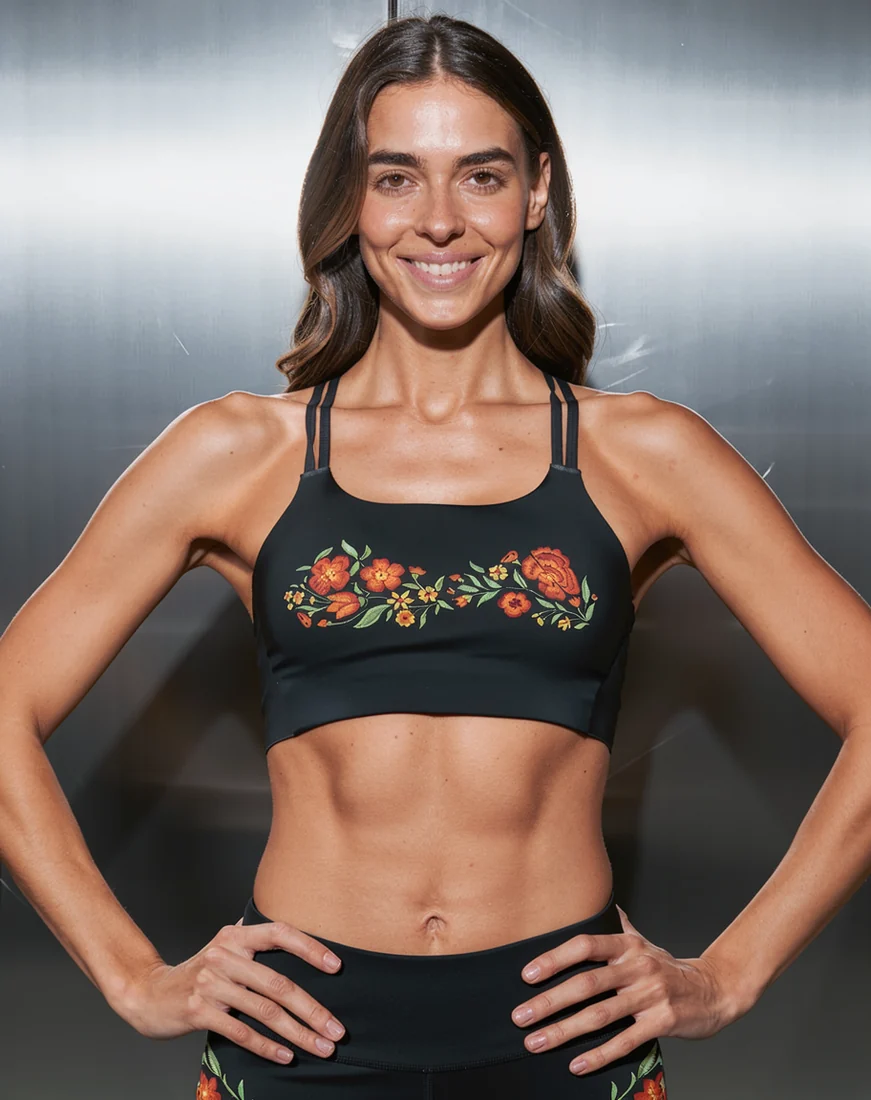
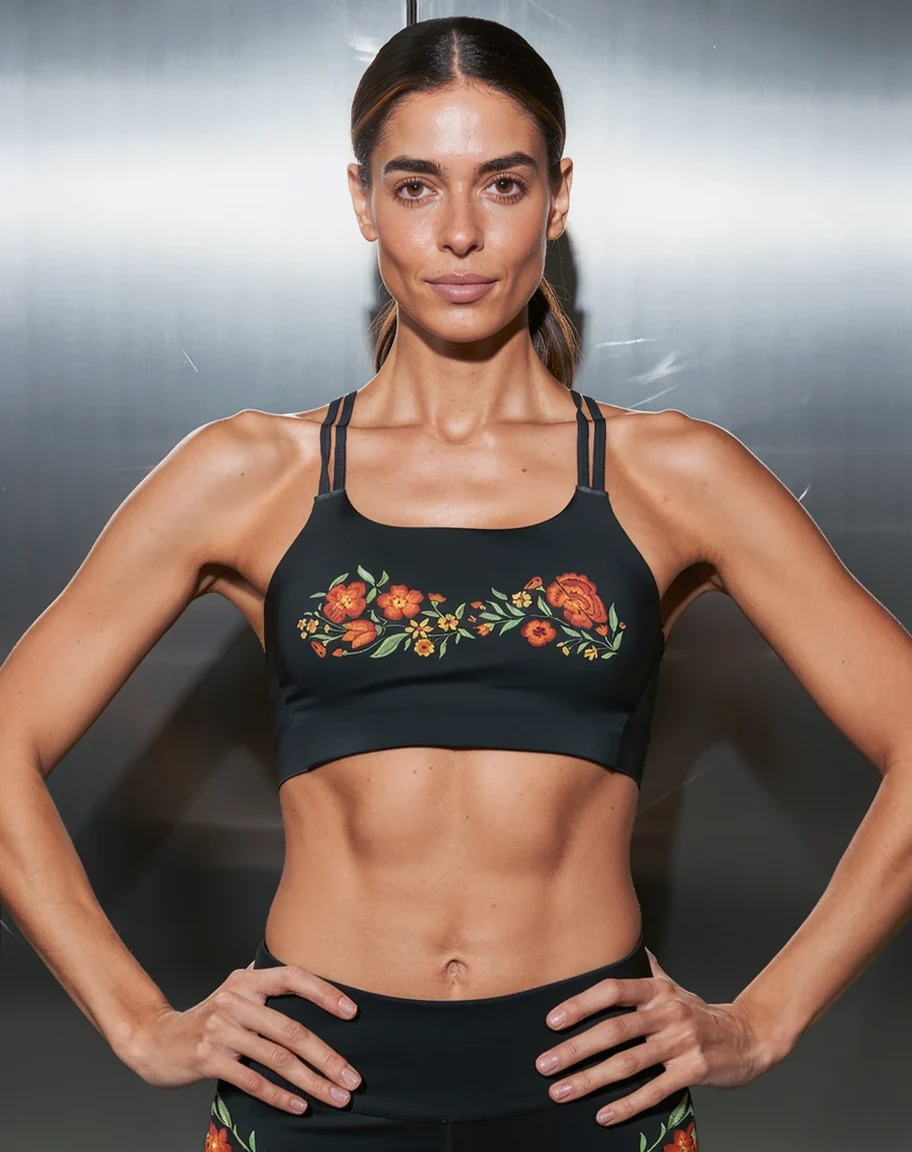
Work through Abir's November round of comments
Copy
- The product cards in the grid no longer carry a description; it shows
  on the product page only, for every product.
- "across the front" and "along the leg" dropped from the bra and
  legging lines, so both now end at "featuring signature artwork".
- The phone bag reads "A crossbody phone bag designed to carry your
  phone and essentials."
- The print notes use Abir's own hang-tag wording rather than the lines
  that were here: bluebirds for freedom, wild poppies for energy, red
  roses for confidence, cherry blossoms for joy, dragon roses for the
  strength inside softness, soft peonies for grace.
- Care sits under Composition on every product page: the five washing
  lines and her tip for garments, "Do not wash" for the bags.
- The giving-back section is one line now, "1% of every sale supports
  cancer patients", in place of the block with the large figure.
- Terms are governed by UAE law; the registered address is unchanged.

Images
- The home page leads with the Bluebird bra instead of the Starflower
  one, image, link and alt together.
- The Starflower legging card had a straight line cutting down through
  the middle of the print; the print is whole again.
- The Wildflower bra card was the same model with the same smile as the
  Bluebird card, which read as AI. She now wears her hair back with a
  level expression, so the two cards are clearly different shots.
- The trainers in the home page running shot are black throughout. Only
[…]

Changed region(s): [[0.31, 0.0, 0.713, 0.3709]]

diff --git a/js/products-data.js b/js/products-data.js
@@ -8,20 +8,32 @@
 // The bags carry their own product photography.
 
 (function () {
-  var LEG_DESC = 'A sculpting, high-rise legging featuring signature artwork along the leg.';
-  var BRA_DESC = 'A supportive sports bra featuring signature artwork across the front.';
+  var LEG_DESC = 'A sculpting, high-rise legging featuring signature artwork.';
+  var BRA_DESC = 'A supportive sports bra featuring signature artwork.';
   var FABRIC   = 'Nylon 80% / Spandex 20%';
   var SIZES    = 'XS to XL (US sizing)';
   var PROPS    = ['UV protection', 'Anti bacterial', 'Cloud soft'];
 
+  // Care, as supplied by the client. Garments carry the full guide; the bags
+  // carry the single line that applies to them.
+  var CARE_GARMENT = {
+    lines: ['Machine wash cold',
+            'Do not bleach',
+            'Tumble dry on low heat',
+            'Do not iron',
+            'Do not dry clean'],
+    note: 'To keep your piece looking its best: wash cold, inside out, with similar colours and skip fabric softener.'
+  };
+  var CARE_BAG = { lines: ['Do not wash'] };
+
   // Each print: [slug, display name, note]
   var PRINTS = [
-    ['bluebird',     'Bluebird',     'Bluebirds in flight over blossom — freedom.'],
-    ['wildflower',   'Wildflower',   'Scattered poppies and wild blooms — energy.'],
-    ['rosalia',      'Rosalia',      'Deep red roses on green — confidence.'],
-    ['cherry-bloom', 'Cherry Bloom', 'White cherry blossom and fruit — joy.'],
-    ['dragon-rose',  'Dragon Rose',  'Gold dragon coiled through roses — strength inside softness.'],
-    ['starflower',   'Starflower',   'Peonies and star blooms in pink and lilac — grace.']
+    ['bluebird',     'Bluebird',     'Bluebirds for freedom.'],
+    ['wildflower',   'Wildflower',   'Wild poppies for energy.'],
+    ['rosalia',      'Rosalia',      'Red roses for confidence.'],
+    ['cherry-bloom', 'Cherry Bloom', 'Cherry blossoms for joy.'],
+    ['dragon-rose',  'Dragon Rose',  'Dragon roses for the strength inside softness.'],
+    ['starflower',   'Starflower',   'Soft peonies for grace.']
   ];
 
   // The five detail frames, in gallery order, per family.
@@ -90,6 +102,7 @@
       alt: legLabel,
       composition: FABRIC,
       sizes: SIZES,
+      care: CARE_GARMENT,
       properties: PROPS,
       gallery: gallery(legId, 'legging', legLabel, slug)
     });
@@ -106,6 +119,7 @@
       alt: braLabel,
       composition: FABRIC,
       sizes: SIZES,
+      care: CARE_GARMENT,
       properties: PROPS,
       gallery: gallery(braId, 'bra', braLabel, slug)
     });
@@ -122,6 +136,7 @@
     alt: 'Model wearing The Motion Top',
     composition: 'Polyester 88% / Spandex 12%',
     sizes: SIZES,
+    care: CARE_GARMENT,
     properties: PROPS,
     gallery: gallery('motion-top', 'top', 'The Motion Top', 'motion-top')
   });
@@ -137,6 +152,7 @@
     alt: 'Model wearing The Refined Jacket',
     composition: FABRIC,
     sizes: SIZES,
+    care: CARE_GARMENT,
     properties: PROPS,
     gallery: gallery('refined-jacket', 'jacket', 'The Refined Jacket', 'refined-jacket')
   });
@@ -152,6 +168,7 @@
     alt: 'The Active Shoulder Bag',
     composition: '100% Polyester, black',
     sizes: 'One size',
+    care: CARE_BAG,
     properties: [],
     gallery: [
       { img: 'details/shoulder-bag-1.webp', alt: 'The Active Shoulder Bag, three-quarter view' },
@@ -167,11 +184,12 @@
     name: 'The Essential Phone Bag',
     print: '',
     origin: '',
-    desc: 'A quilted crossbody designed to carry your phone and essentials, hands free.',
+    desc: 'A crossbody phone bag designed to carry your phone and essentials.',
     img: 'cards/phone-bag.webp',
     alt: 'The Essential Phone Bag',
     composition: '100% Polyester, black quilted, adjustable strap',
     sizes: 'One size',
+    care: CARE_BAG,
     properties: [],
     gallery: [
       { img: 'details/phone-bag-1.webp', alt: 'The Essential Phone Bag, front view' },

diff --git a/index.html b/index.html
@@ -173,8 +173,8 @@
 
       <div class="products__grid">
         <article class="product-card product-card--tall ar">
-          <img src="assets/cards/bra-starflower.webp" loading="lazy" alt="The Signature Sports Bra in the Starflower print" width="877" height="1100">
-          <a class="btn btn--ghost" href="/products/bra-starflower" aria-label="Check our product: The Signature Sports Bra in the Starflower print">Check our product <span class="btn__icon" aria-hidden="true"></span></a>
+          <img src="assets/cards/bra-bluebird.webp" loading="lazy" alt="The Signature Sports Bra in the Bluebird print" width="871" height="1100">
+          <a class="btn btn--ghost" href="/products/bra-bluebird" aria-label="Check our product: The Signature Sports Bra in the Bluebird print">Check our product <span class="btn__icon" aria-hidden="true"></span></a>
         </article>
         <article class="product-card product-card--wide ar">
           <img src="assets/cards/legging-bluebird.webp" loading="lazy" alt="The Signature Legging in the Bluebird print" width="877" height="1100">
@@ -251,20 +251,10 @@
     </section>
 
 
-    <section class="giving" id="giving-back">
-      <div class="giving__inner">
-        <figure class="giving__figure ar">
-          <span class="giving__num">1<i>%</i></span>
-          <figcaption>of all ABIRA sales</figcaption>
-        </figure>
-        <div class="giving__copy ar" style="--ar-delay:.12s">
-          <p class="giving__kicker">Giving back</p>
-          <h2 class="giving__title">Strength is meant<br>to be shared.</h2>
-          <p>ABIRA was created for women who move with purpose. One percent of every
-             sale goes toward helping cancer patients access the treatment they need.</p>
-          <p class="giving__note">Every piece you choose helps someone keep moving forward.</p>
-        </div>
-      </div>
+    <!-- The giving-back block used to be a full section with a large 1% figure.
+         The client asked for a single line in its place. -->
+    <section class="giving giving--line" id="giving-back">
+      <p class="giving__sentence ar"><b>1%</b> of every sale supports cancer patients</p>
     </section>
 
     <section class="cta" id="contact">

diff --git a/css/styles.css b/css/styles.css
@@ -1075,7 +1075,9 @@ html.is-ready .hero__cta .btn { transition-delay: .5s; }
   .pillars { grid-template-columns: 1fr; }
   .story, .story--flip { grid-template-columns: 1fr; }
   .story--flip .story__media { order: 0; }
-  .story__media img { aspect-ratio: 4 / 3; }
+  /* The shoot frames are portrait (2:3). A 4/3 box cropped the model's head
+     and legs off on a phone, so the narrow layout keeps a portrait box too. */
+  .story__media img { aspect-ratio: 4 / 5; }
   .contact { grid-template-columns: 1fr; }
 }
 
@@ -1426,9 +1428,27 @@ html.is-ready .hero__cta .btn { transition-delay: .5s; }
   letter-spacing: .1em;
   text-transform: uppercase;
   color: var(--grey);
-  align-self: center;
+  align-self: start;
+  padding-top: .12rem;
 }
 .pdp__spec dd { color: var(--white); }
+
+/* Care runs to several lines under Composition, so the label lines up with
+   the first of them rather than the middle of the block. */
+.pdp__care {
+  list-style: none;
+  margin: 0;
+  padding: 0;
+  display: grid;
+  gap: .22rem;
+}
+.pdp__care-note {
+  margin-top: .6rem;
+  max-width: 36ch;
+  color: var(--grey);
+  font-size: .9rem;
+  line-height: 1.55;
+}
 
 .shop-card__sub {
   font-family: var(--font-ui);
@@ -1448,6 +1468,24 @@ html.is-ready .hero__cta .btn { transition-delay: .5s; }
   padding: clamp(4.5rem, 9vw, 8rem) var(--pad-x);
   border-top: 1px solid rgba(244, 243, 241, .08);
   border-bottom: 1px solid rgba(244, 243, 241, .08);
+}
+
+/* The one-line version: a quiet band, the sentence centred and nothing else. */
+.giving--line {
+  padding-block: clamp(2.6rem, 5vw, 4rem);
+  text-align: center;
+}
+.giving__sentence {
+  margin: 0;
+  font-family: var(--font-ui);
+  font-size: clamp(.84rem, 1.5vw, 1rem);
+  letter-spacing: .12em;
+  text-transform: uppercase;
+  color: var(--white);
+}
+.giving__sentence b {
+  font-weight: inherit;
+  color: var(--magenta);
 }
 .giving__inner {
   max-width: 1180px;

diff --git a/js/main.js b/js/main.js
@@ -83,7 +83,6 @@
       '</div>' +
       '<div class="shop-card__meta"><h3>' + p.name + '</h3></div>' +
       (sub ? '<p class="shop-card__sub">' + sub + '</p>' : '') +
-      '<p class="shop-card__desc">' + p.desc + '</p>' +
     '</article>';
   }
 
@@ -195,12 +194,31 @@
 
     // Specification list
     const spec = document.getElementById('pdp-spec');
-    const rows = [['Composition', product.composition], ['Sizes', product.sizes]];
+    const rows = [['Composition', product.composition], ['Care', product.care], ['Sizes', product.sizes]];
     if (product.print) rows.push(['Print', product.print]);
     rows.forEach(([k, v]) => {
       if (!v) return;
       const dt = document.createElement('dt'); dt.textContent = k;
-      const dd = document.createElement('dd'); dd.textContent = v;
+      const dd = document.createElement('dd');
+      if (typeof v === 'string') {
+        dd.textContent = v;
+      } else {
+        // Care: the washing lines, then the client's one-line tip underneath.
+        const ul = document.createElement('ul');
+        ul.className = 'pdp__care';
+        (v.lines || []).forEach(line => {
+          const li = document.createElement('li');
+          li.textContent = line;
+          ul.appendChild(li);
+        });
+        dd.appendChild(ul);
+        if (v.note) {
+          const note = document.createElement('p');
+          note.className = 'pdp__care-note';
+          note.textContent = v.note;
+          dd.appendChild(note);
+        }
+      }
       spec.appendChild(dt); spec.appendChild(dd);
     });
 

diff --git a/products/legging-cherry-bloom.html b/products/legging-cherry-bloom.html
@@ -4,7 +4,7 @@
   <meta charset="UTF-8">
   <meta name="viewport" content="width=device-width, initial-scale=1.0">
   <title>The Signature Legging — Cherry Bloom — ABIRA</title>
-  <meta name="description" content="A sculpting, high-rise legging featuring signature artwork along the leg.">
+  <meta name="description" content="A sculpting, high-rise legging featuring signature artwork.">
   <link rel="preconnect" href="https://fonts.googleapis.com">
   <link rel="preconnect" href="https://fonts.gstatic.com" crossorigin>
   <!-- Loaded as print then flipped on load, so this third-party
@@ -17,7 +17,7 @@
   <link rel="apple-touch-icon" href="/assets/apple-touch-icon.png">
   <link rel="canonical" href="https://abiraactive.com/products/legging-cherry-bloom">
   <meta property="og:type" content="product">
-  <meta property="og:description" content="A sculpting, high-rise legging featuring signature artwork along the leg.">
+  <meta property="og:description" content="A sculpting, high-rise legging featuring signature artwork.">
   <meta property="og:site_name" content="ABIRA">
   <meta property="og:title" content="The Signature Legging — Cherry Bloom — ABIRA">
   <meta property="og:url" content="https://abiraactive.com/products/legging-cherry-bloom">

diff --git a/products/legging-dragon-rose.html b/products/legging-dragon-rose.html
@@ -4,7 +4,7 @@
   <meta charset="UTF-8">
   <meta name="viewport" content="width=device-width, initial-scale=1.0">
   <title>The Signature Legging — Dragon Rose — ABIRA</title>
-  <meta name="description" content="A sculpting, high-rise legging featuring signature artwork along the leg.">
+  <meta name="description" content="A sculpting, high-rise legging featuring signature artwork.">
   <link rel="preconnect" href="https://fonts.googleapis.com">
   <link rel="preconnect" href="https://fonts.gstatic.com" crossorigin>
   <!-- Loaded as print then flipped on load, so this third-party
@@ -17,7 +17,7 @@
   <link rel="apple-touch-icon" href="/assets/apple-touch-icon.png">
   <link rel="canonical" href="https://abiraactive.com/products/legging-dragon-rose">
   <meta property="og:type" content="product">
-  <meta property="og:description" content="A sculpting, high-rise legging featuring signature artwork along the leg.">
+  <meta property="og:description" content="A sculpting, high-rise legging featuring signature artwork.">
   <meta property="og:site_name" content="ABIRA">
   <meta property="og:title" content="The Signature Legging — Dragon Rose — ABIRA">
   <meta property="og:url" content="https://abiraactive.com/products/legging-dragon-rose">

diff --git a/products/legging-starflower.html b/products/legging-starflower.html
@@ -4,7 +4,7 @@
   <meta charset="UTF-8">
   <meta name="viewport" content="width=device-width, initial-scale=1.0">
   <title>The Signature Legging — Starflower — ABIRA</title>
-  <meta name="description" content="A sculpting, high-rise legging featuring signature artwork along the leg.">
+  <meta name="description" content="A sculpting, high-rise legging featuring signature artwork.">
   <link rel="preconnect" href="https://fonts.googleapis.com">
   <link rel="preconnect" href="https://fonts.gstatic.com" crossorigin>
   <!-- Loaded as print then flipped on load, so this third-party
@@ -17,7 +17,7 @@
   <link rel="apple-touch-icon" href="/assets/apple-touch-icon.png">
   <link rel="canonical" href="https://abiraactive.com/products/legging-starflower">
   <meta property="og:type" content="product">
-  <meta property="og:description" content="A sculpting, high-rise legging featuring signature artwork along the leg.">
+  <meta property="og:description" content="A sculpting, high-rise legging featuring signature artwork.">
   <meta property="og:site_name" content="ABIRA">
   <meta property="og:title" content="The Signature Legging — Starflower — ABIRA">
   <meta property="og:url" content="https://abiraactive.com/products/legging-starflower">

diff --git a/products/legging-wildflower.html b/products/legging-wildflower.html
@@ -4,7 +4,7 @@
   <meta charset="UTF-8">
   <meta name="viewport" content="width=device-width, initial-scale=1.0">
   <title>The Signature Legging — Wildflower — ABIRA</title>
-  <meta name="description" content="A sculpting, high-rise legging featuring signature artwork along the leg.">
+  <meta name="description" content="A sculpting, high-rise legging featuring signature artwork.">
   <link rel="preconnect" href="https://fonts.googleapis.com">
   <link rel="preconnect" href="https://fonts.gstatic.com" crossorigin>
   <!-- Loaded as print then flipped on load, so this third-party
@@ -17,7 +17,7 @@
   <link rel="apple-touch-icon" href="/assets/apple-touch-icon.png">
   <link rel="canonical" href="https://abiraactive.com/products/legging-wildflower">
   <meta property="og:type" content="product">
-  <meta property="og:description" content="A sculpting, high-rise legging featuring signature artwork along the leg.">
+  <meta property="og:description" content="A sculpting, high-rise legging featuring signature artwork.">
   <meta property="og:site_name" content="ABIRA">
   <meta property="og:title" content="The Signature Legging — Wildflower — ABIRA">
   <meta property="og:url" content="https://abiraactive.com/products/legging-wildflower">

diff --git a/products/essential-phone-bag.html b/products/essential-phone-bag.html
@@ -4,7 +4,7 @@
   <meta charset="UTF-8">
   <meta name="viewport" content="width=device-width, initial-scale=1.0">
   <title>The Essential Phone Bag — ABIRA</title>
-  <meta name="description" content="A quilted crossbody designed to carry your phone and essentials, hands free.">
+  <meta name="description" content="A crossbody phone bag designed to carry your phone and essentials.">
   <link rel="preconnect" href="https://fonts.googleapis.com">
   <link rel="preconnect" href="https://fonts.gstatic.com" crossorigin>
   <!-- Loaded as print then flipped on load, so this third-party
@@ -17,7 +17,7 @@
   <link rel="apple-touch-icon" href="/assets/apple-touch-icon.png">
   <link rel="canonical" href="https://abiraactive.com/products/essential-phone-bag">
   <meta property="og:type" content="product">
-  <meta property="og:description" content="A quilted crossbody designed to carry your phone and essentials, hands free.">
+  <meta property="og:description" content="A crossbody phone bag designed to carry your phone and essentials.">
   <meta property="og:site_name" content="ABIRA">
   <meta property="og:title" content="The Essential Phone Bag — ABIRA">
   <meta property="og:url" content="https://abiraactive.com/products/essential-phone-bag">

diff --git a/products/legging-bluebird.html b/products/legging-bluebird.html
@@ -4,7 +4,7 @@
   <meta charset="UTF-8">
   <meta name="viewport" content="width=device-width, initial-scale=1.0">
   <title>The Signature Legging — Bluebird — ABIRA</title>
-  <meta name="description" content="A sculpting, high-rise legging featuring signature artwork along the leg.">
+  <meta name="description" content="A sculpting, high-rise legging featuring signature artwork.">
   <link rel="preconnect" href="https://fonts.googleapis.com">
   <link rel="preconnect" href="https://fonts.gstatic.com" crossorigin>
   <!-- Loaded as print then flipped on load, so this third-party
@@ -17,7 +17,7 @@
   <link rel="apple-touch-icon" href="/assets/apple-touch-icon.png">
   <link rel="canonical" href="https://abiraactive.com/products/legging-bluebird">
   <meta property="og:type" content="product">
-  <meta property="og:description" content="A sculpting, high-rise legging featuring signature artwork along the leg.">
+  <meta property="og:description" content="A sculpting, high-rise legging featuring signature artwork.">
   <meta property="og:site_name" content="ABIRA">
   <meta property="og:title" content="The Signature Legging — Bluebird — ABIRA">
   <meta property="og:url" content="https://abiraactive.com/products/legging-bluebird">

diff --git a/products/legging-rosalia.html b/products/legging-rosalia.html
@@ -4,7 +4,7 @@
   <meta charset="UTF-8">
   <meta name="viewport" content="width=device-width, initial-scale=1.0">
   <title>The Signature Legging — Rosalia — ABIRA</title>
-  <meta name="description" content="A sculpting, high-rise legging featuring signature artwork along the leg.">
+  <meta name="description" content="A sculpting, high-rise legging featuring signature artwork.">
   <link rel="preconnect" href="https://fonts.googleapis.com">
   <link rel="preconnect" href="https://fonts.gstatic.com" crossorigin>
   <!-- Loaded as print then flipped on load, so this third-party
@@ -17,7 +17,7 @@
   <link rel="apple-touch-icon" href="/assets/apple-touch-icon.png">
   <link rel="canonical" href="https://abiraactive.com/products/legging-rosalia">
   <meta property="og:type" content="product">
-  <meta property="og:description" content="A sculpting, high-rise legging featuring signature artwork along the leg.">
+  <meta property="og:description" content="A sculpting, high-rise legging featuring signature artwork.">
   <meta property="og:site_name" content="ABIRA">
   <meta property="og:title" content="The Signature Legging — Rosalia — ABIRA">
   <meta property="og:url" content="https://abiraactive.com/products/legging-rosalia">

diff --git a/products/bra-cherry-bloom.html b/products/bra-cherry-bloom.html
@@ -4,7 +4,7 @@
   <meta charset="UTF-8">
   <meta name="viewport" content="width=device-width, initial-scale=1.0">
   <title>The Signature Sports Bra — Cherry Bloom — ABIRA</title>
-  <meta name="description" content="A supportive sports bra featuring signature artwork across the front.">
+  <meta name="description" content="A supportive sports bra featuring signature artwork.">
   <link rel="preconnect" href="https://fonts.googleapis.com">
   <link rel="preconnect" href="https://fonts.gstatic.com" crossorigin>
   <!-- Loaded as print then flipped on load, so this third-party
@@ -17,7 +17,7 @@
   <link rel="apple-touch-icon" href="/assets/apple-touch-icon.png">
   <link rel="canonical" href="https://abiraactive.com/products/bra-cherry-bloom">
   <meta property="og:type" content="product">
-  <meta property="og:description" content="A supportive sports bra featuring signature artwork across the front.">
+  <meta property="og:description" content="A supportive sports bra featuring signature artwork.">
   <meta property="og:site_name" content="ABIRA">
   <meta property="og:title" content="The Signature Sports Bra — Cherry Bloom — ABIRA">
   <meta property="og:url" content="https://abiraactive.com/products/bra-cherry-bloom">
